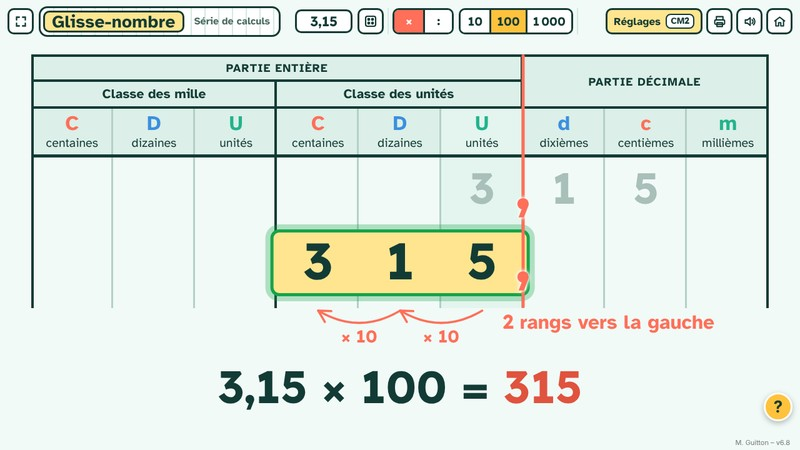
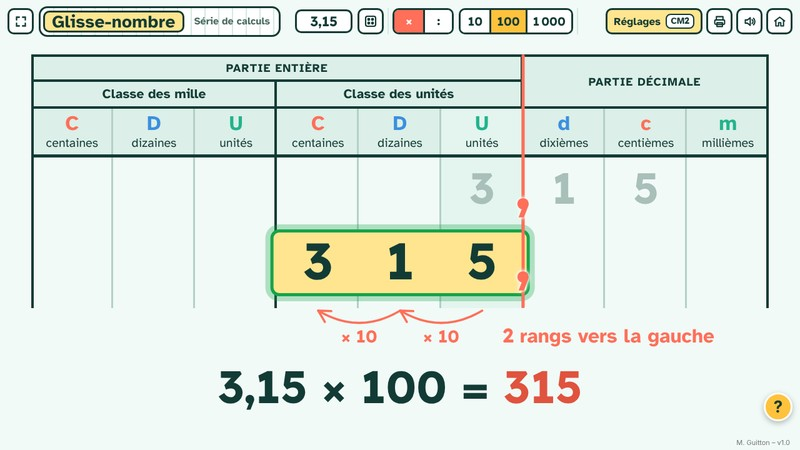
Glisse-nombre v1.0 : la phrase "n rangs vers la gauche" sur la ligne de "x 10", captures mises a jour
Claude-Session: https://claude.ai/code/session_01Te8xrvMufWVNSVLdwnm9Mc

Changed region(s): [[0.625, 0.6844, 0.9062, 0.7778], [0.9062, 0.9644, 0.9688, 0.9956]]

diff --git a/glisse-nombre/index.html b/glisse-nombre/index.html
@@ -28,7 +28,8 @@
   Le glisse-nombre : multiplier et diviser par 10, 100, 1 000 (CE1 au CM2)
   D'après Éduscol, « Fractions et nombres décimaux au cycle 3 », annexe 4 « Le glisse-nombre ».
   Principe : la virgule reste fixe, ce sont les chiffres qui glissent.
-  v6.8 : intégration au portail « Le tableau magique » ; bouton « Recommencer » retiré.
+  v1.0 : version du portail « Le tableau magique » (numérotation reprise à 1.0) ; bouton « Recommencer » retiré ;
+         phrase « n rangs vers la gauche » sur la même ligne que « × 10 ».
   v3.1 : réglages communs aux deux écrans ; le dé et les boutons suivent le niveau.
   v2.3 : glisse-nombre comme en v2.0 ; choix de la série dans « Réglages de la série ».
   v2.1 : écran épuré (choix dans Réglages), interrupteur à bande glissante, chrono 3 min au plus.
@@ -586,7 +587,7 @@ html.dans-portail .portail-accueil{display:grid !important}
 
 <div id="decompte" aria-hidden="true"><span></span></div>
 
-<div class="signature-bas">M. Guitton<span class="app-version"> – v6.8</span></div>
+<div class="signature-bas">M. Guitton<span class="app-version"> – v1.0</span></div>
 
 <script>
 /* =========================================================
@@ -851,7 +852,7 @@ function afficherPastilles(){
          + `<path d="M${p(.5)} L${x2},${y0} L${p(-.5)}" fill="none" stroke="${coul}" stroke-width="3.5" stroke-linecap="round" stroke-linejoin="round"/>`
          + `<text x="${xm}" y="${(y0+cy)/2 + fs + 4}" text-anchor="middle" font-size="${fs}" fill="${coul}">${lab}</text>`;
   }
-  // Phrase « n rangs vers la gauche / droite » sur la même ligne que les arcs :
+  // Phrase « n rangs vers la gauche / droite » sur la même ligne que « × 10 » / « : 10 » (même ligne de base) :
   // à droite des arcs pour une multiplication, à gauche pour une division (du côté d'où part le nombre)
   const n = Math.abs(s_), xs = [0, n].map(k => colDe(etat.depart.hi + k*sens)*cw + cw/2);
   const phrase = `${n} rang${n>1 ? 's' : ''} vers la ${s_>0 ? 'gauche' : 'droite'}`;
@@ -860,7 +861,7 @@ function afficherPastilles(){
   if(cote==='droite' && Math.max(...xs) + .25*cw + lp > W + .3*cw) cote = 'gauche';   // pas de place : de l'autre côté
   if(cote==='gauche' && Math.min(...xs) - .25*cw - lp < -.3*cw) cote = 'droite';
   const xp = cote==='droite' ? Math.max(...xs) + .25*cw : Math.min(...xs) - .25*cw;
-  svg += `<text class="phrase" x="${xp}" y="${(y0+cy)/2 + fs*.35}" text-anchor="${cote==='droite' ? 'start' : 'end'}" font-size="${fp}" fill="${coul}">${phrase}</text>`;
+  svg += `<text class="phrase" x="${xp}" y="${(y0+cy)/2 + fs + 4}" text-anchor="${cote==='droite' ? 'start' : 'end'}" font-size="${fp}" fill="${coul}">${phrase}</text>`;
   const e = document.createElementNS('http://www.w3.org/2000/svg','svg');
   e.setAttribute('class','arcs'); e.setAttribute('width', nbCols()*cw); e.setAttribute('height', h);
   Object.assign(e.style, {left:'0px', top:g.fin+'px'});

diff --git a/outils.js b/outils.js
@@ -122,7 +122,7 @@ self.OUTILS = [
   {
     dossier: 'glisse-nombre',
     domaine: 'maths',
-    version: '6.8',
+    version: '1.0',
     nom: 'Le glisse-nombre',
     niveau: 'calcul mental · du CE1 au CM2',
     texte: 'Un glisse-nombre interactif à projeter au tableau : la virgule reste fixe, ce sont les chiffres qui glissent pour multiplier '
